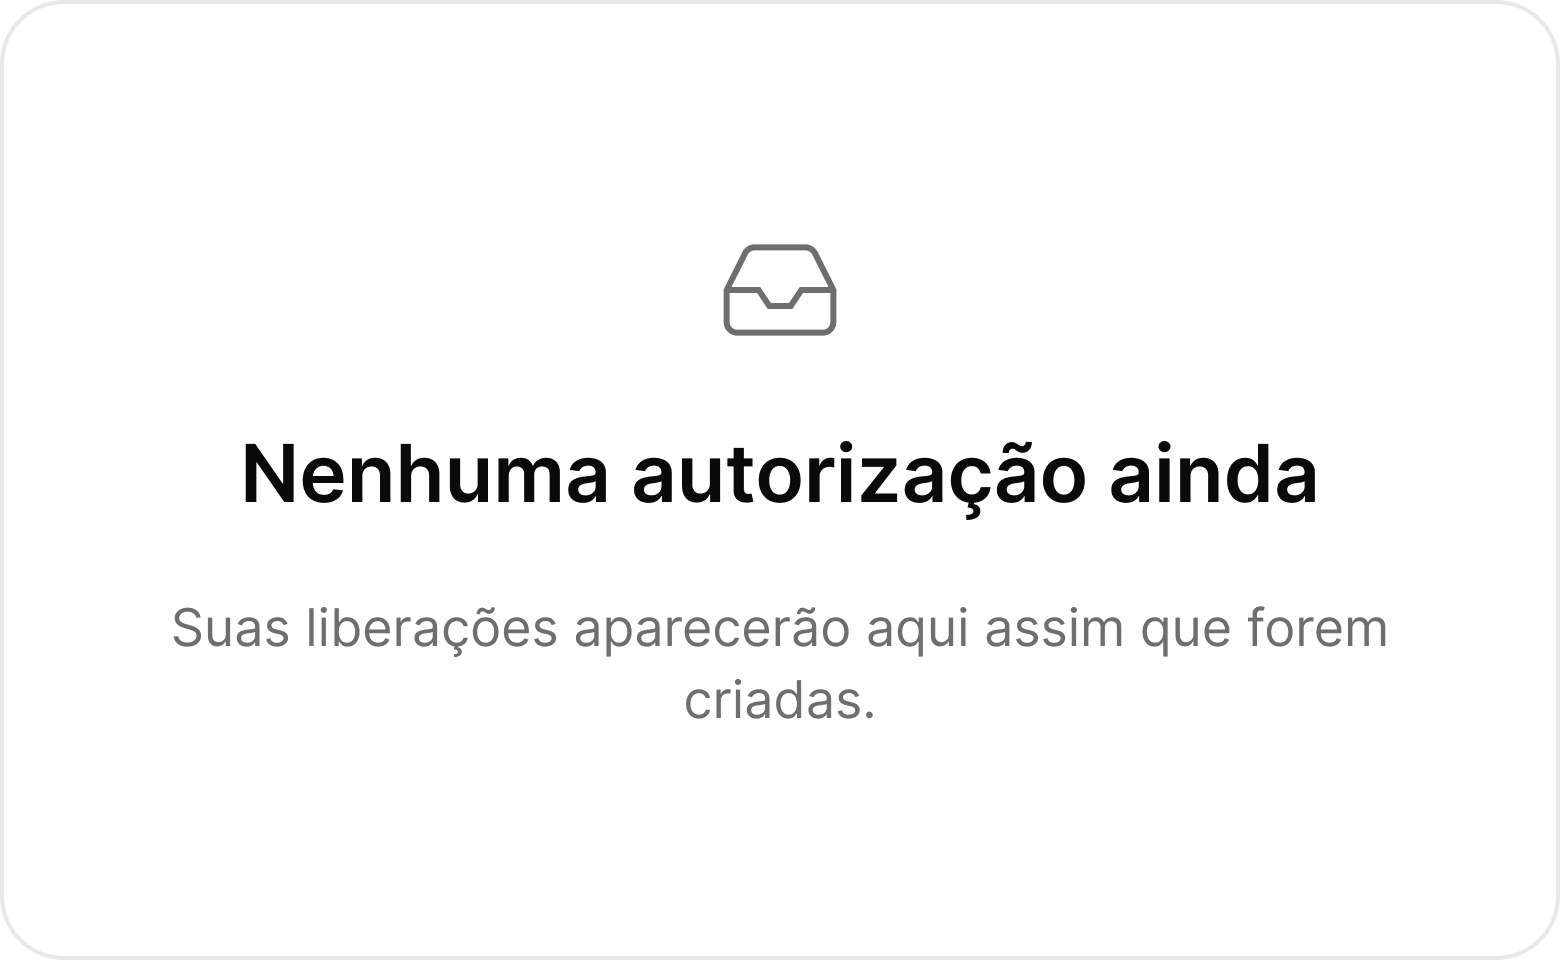
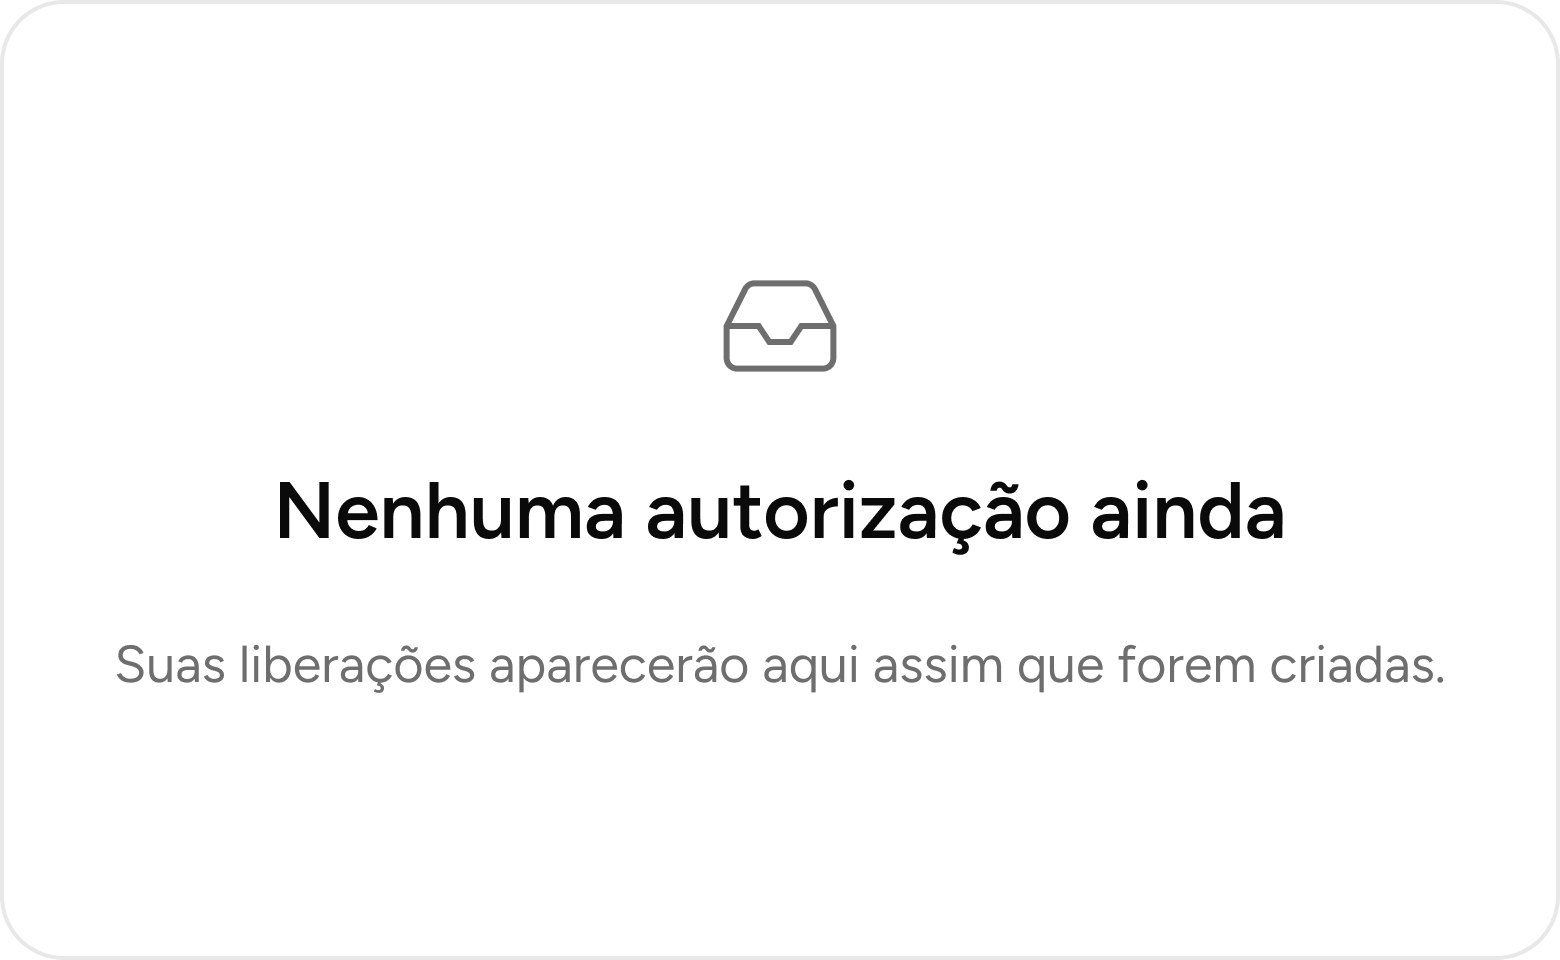
docs: exports do figma atualizados (figtree)

Changed region(s): [[0.0615, 0.625, 0.9231, 0.75], [0.1538, 0.4375, 0.8615, 0.5625], [0.4615, 0.25, 0.5538, 0.4062]]

diff --git a/design/README.md b/design/README.md
@@ -32,6 +32,6 @@ O tema do Flutter (US-09) espelha estes tokens nos dois modos (ThemeData claro/e
 | `telas-escuro/` | O mesmo fluxo no tema escuro + Perfil com seletor de tema |
 | `handoff-regras-de-negocio.png` | Página de regras e handoffs (QR 10s, geofence 100m, perfis, NFC, fluxos) |
 
-PNGs exportados do Figma em 16/10 (a fonte viva continua sendo o arquivo no Figma).
+PNGs exportados do Figma em 16/10, já com a tipografia **Figtree** (a fonte viva continua sendo o arquivo no Figma).
 
 > Histórico: `Page 1` (protótipo inicial) e a exploração azul anterior estão descartadas — mantidas apenas como referência.
